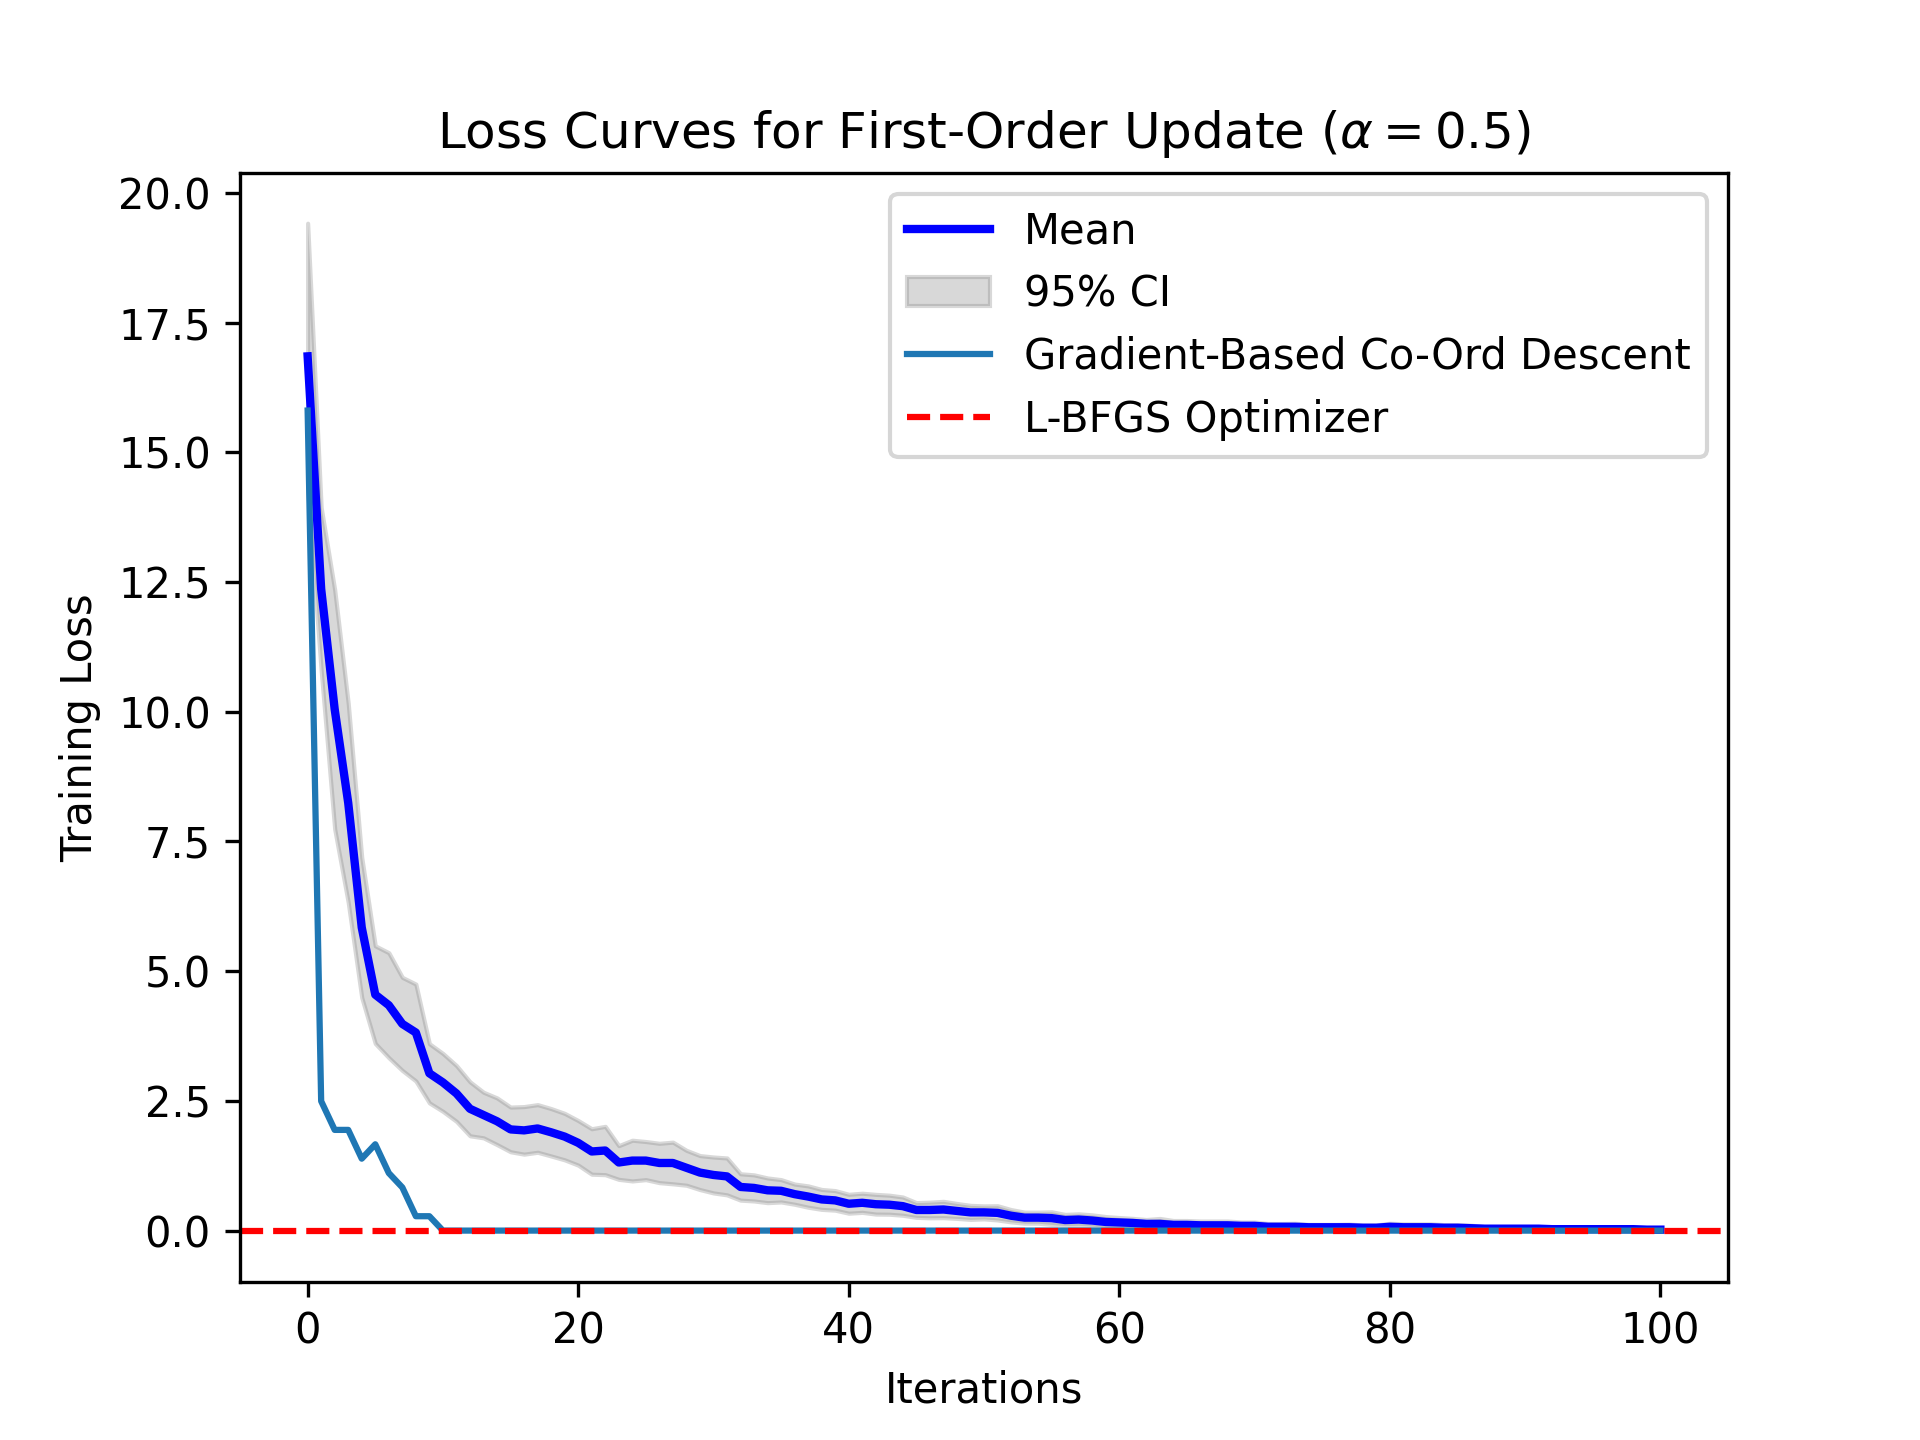
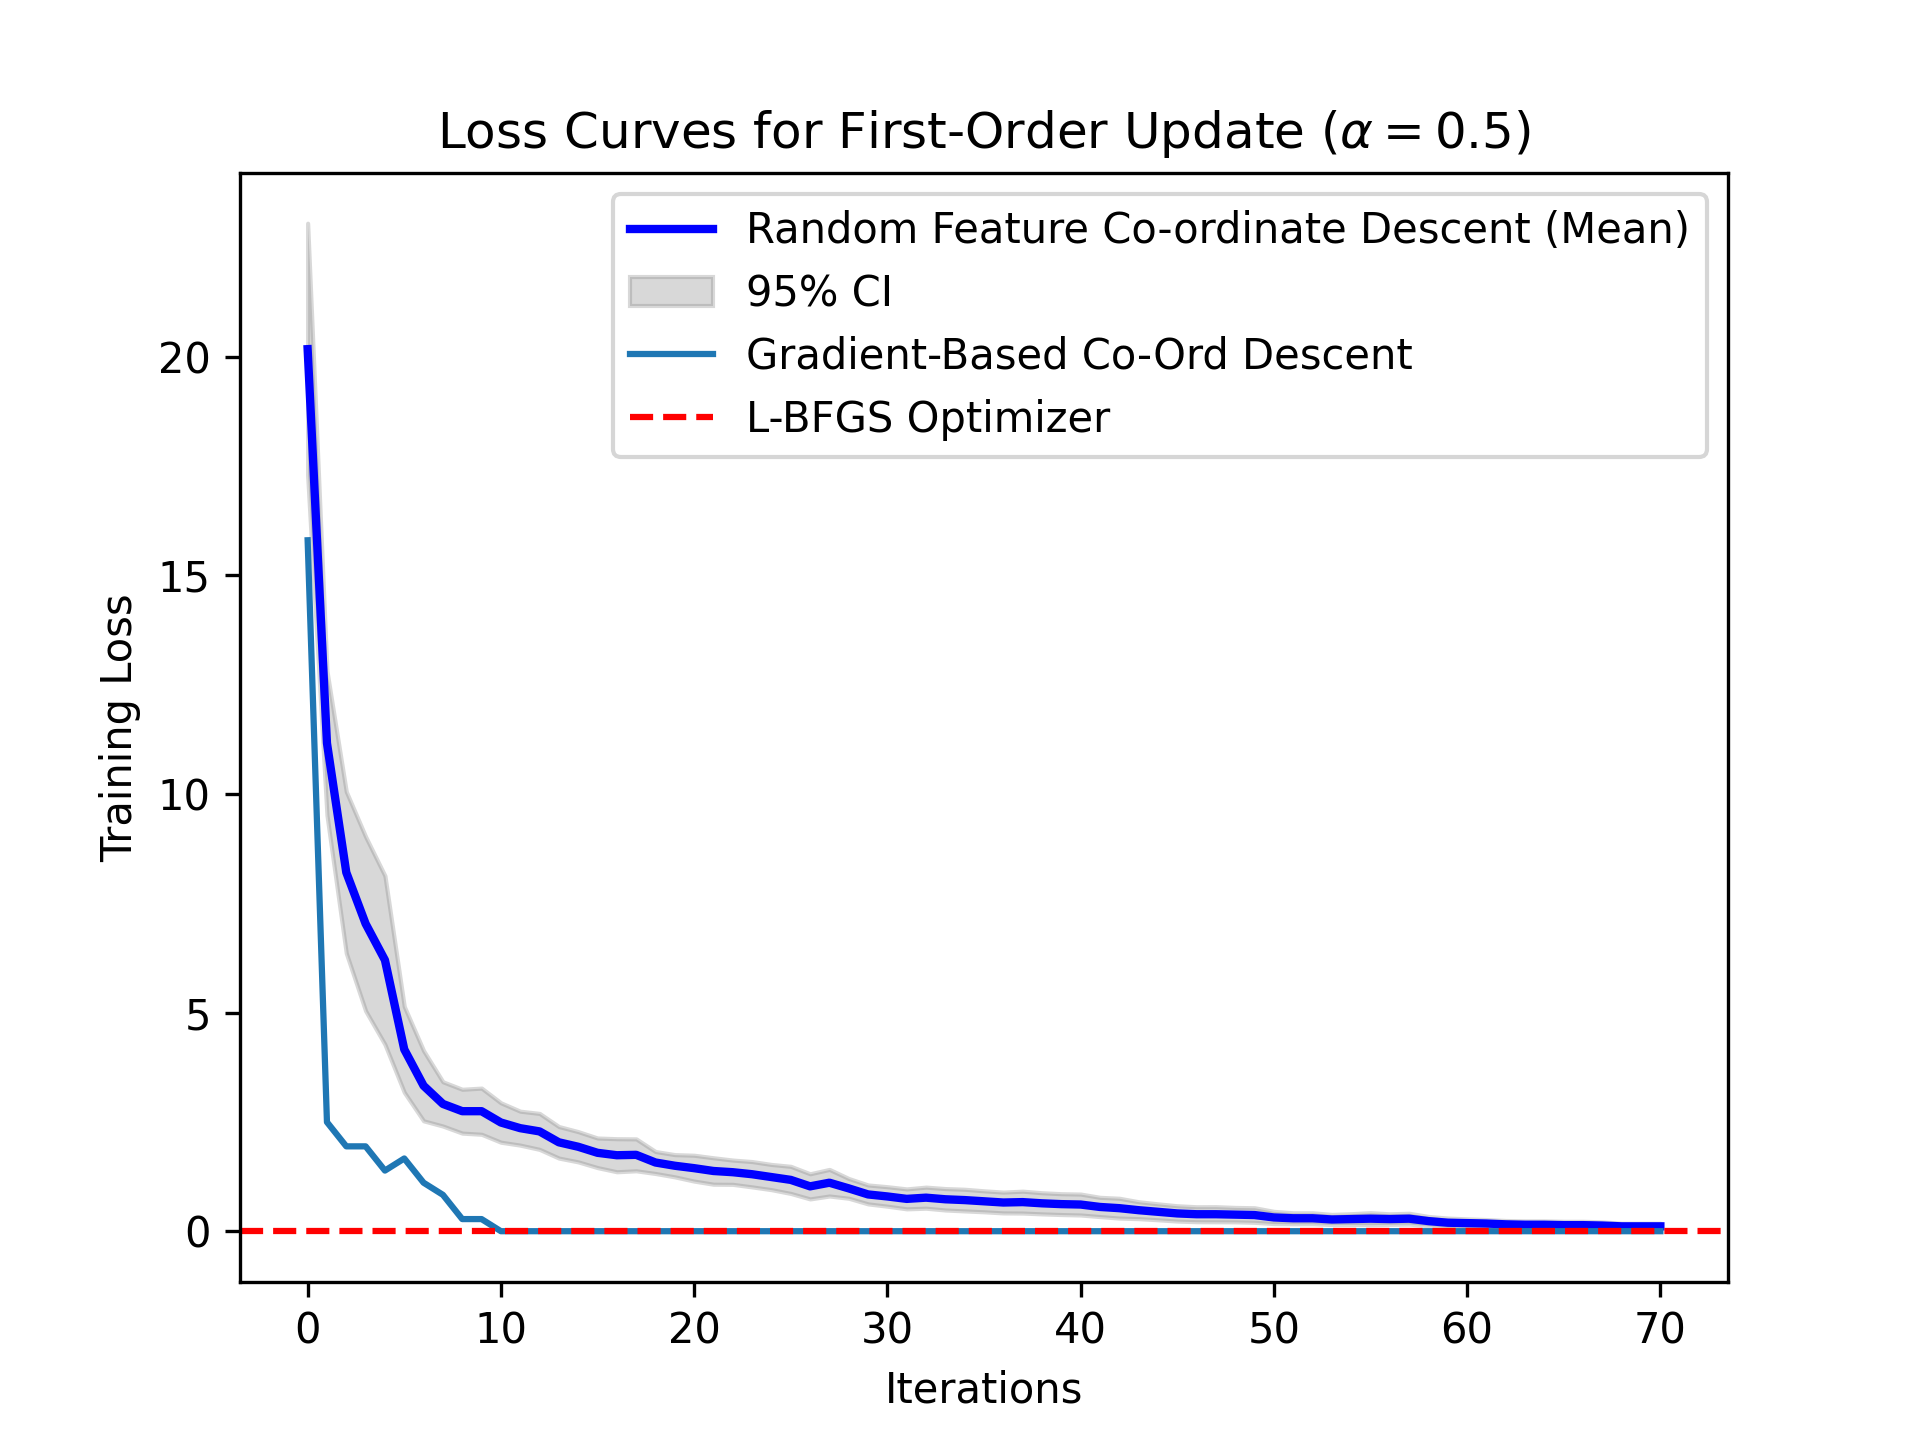
Final changes

diff --git a/project2/main.py b/project2/main.py
@@ -6,7 +6,8 @@ from baseline import BaselineModel
 from model import RandomFeatureModel, CustomModel
 import matplotlib.pyplot as plt
 import numpy as np
-from scipy import stats
+
+MAX_ITERS = 70
 
 plt.set_loglevel("warning")
 
@@ -44,13 +45,15 @@ seeds = np.random.randint(0, 100, 30)
 for i, tc in enumerate(test_cases):
     plt.figure()
     wt_update, alpha = tc
-    model = CustomModel(X_train, y_train, root, n_iter=100, wt_update=wt_update, alpha=alpha)
+    model = CustomModel(X_train, y_train, root, n_iter=MAX_ITERS, wt_update=wt_update, alpha=alpha)
     l1 = model.learn()
     
     loss_data = list()
     for j in range(30):
-        model = RandomFeatureModel(X_train, y_train, root, n_iter=100, wt_update=wt_update, alpha=alpha, seed=seeds[j])
+        model = RandomFeatureModel(X_train, y_train, root, n_iter=MAX_ITERS, wt_update=wt_update, alpha=alpha, seed=seeds[j])
         l2 = model.learn()
+        if len(l2) < MAX_ITERS + 1:
+            l2 += [l2[-1]] * (MAX_ITERS + 1 - len(l2))
         loss_data.append(l2)
     data = np.array(loss_data)
     
@@ -70,10 +73,10 @@ for i, tc in enumerate(test_cases):
     x = range(len(mean_loss_random))
     
     # Plot mean line
-    plt.plot(x, mean_loss_random, 'b-', label='Mean', linewidth=2)
+    plt.plot(x, mean_loss_random, 'b-', label='Random Feature Co-ordinate Descent (Mean)', linewidth=2)
     
     # Plot confidence interval
-    plt.fill_between(range(101), mean_loss_random - confidence_interval, 
+    plt.fill_between(range(MAX_ITERS + 1), mean_loss_random - confidence_interval, 
                  mean_loss_random + confidence_interval, color='gray', alpha=0.3, label='95% CI')
 
     if wt_update == 'newton':

diff --git a/project2/model.py b/project2/model.py
@@ -4,7 +4,7 @@ from scipy.special import expit
 from scipy import sparse
 from sklearn.metrics import log_loss
 
-def calculate_stable_hessian(X, y_hat, eps=1e-15):
+def calculate_stable_hessian(X, y_hat, eps=1e-10):
     # Clip probabilities to prevent numerical instability
     y_hat_clipped = np.clip(y_hat, eps, 1 - eps)
     
@@ -94,11 +94,19 @@ class CDLogisticRegressor:
 
     def learn(self):
         losses = [self.loss(self.X_train, self.y_train)]
+        patience = 20
+        tol = 1e-10
         # self.logger.info(f"STARTING LOSS: {losses[0]}")
         for i in range(self.n_iter):
             self.update_weights()
             loss = self.loss(self.X_train, self.y_train)
             losses.append(loss)
+            # if len(losses) > patience:
+            #     loss_diff = losses[-patience] - losses[-1]  # Improvement over last patience iterations
+            #     if loss_diff < tol:  # If loss hasn't improved by more than tol
+            #         self.logger.warning(f"Early stopping at iteration {i}, loss improvement over {patience} iterations: {loss_diff:.6f}")
+            #         break
+
         return losses
 
 
